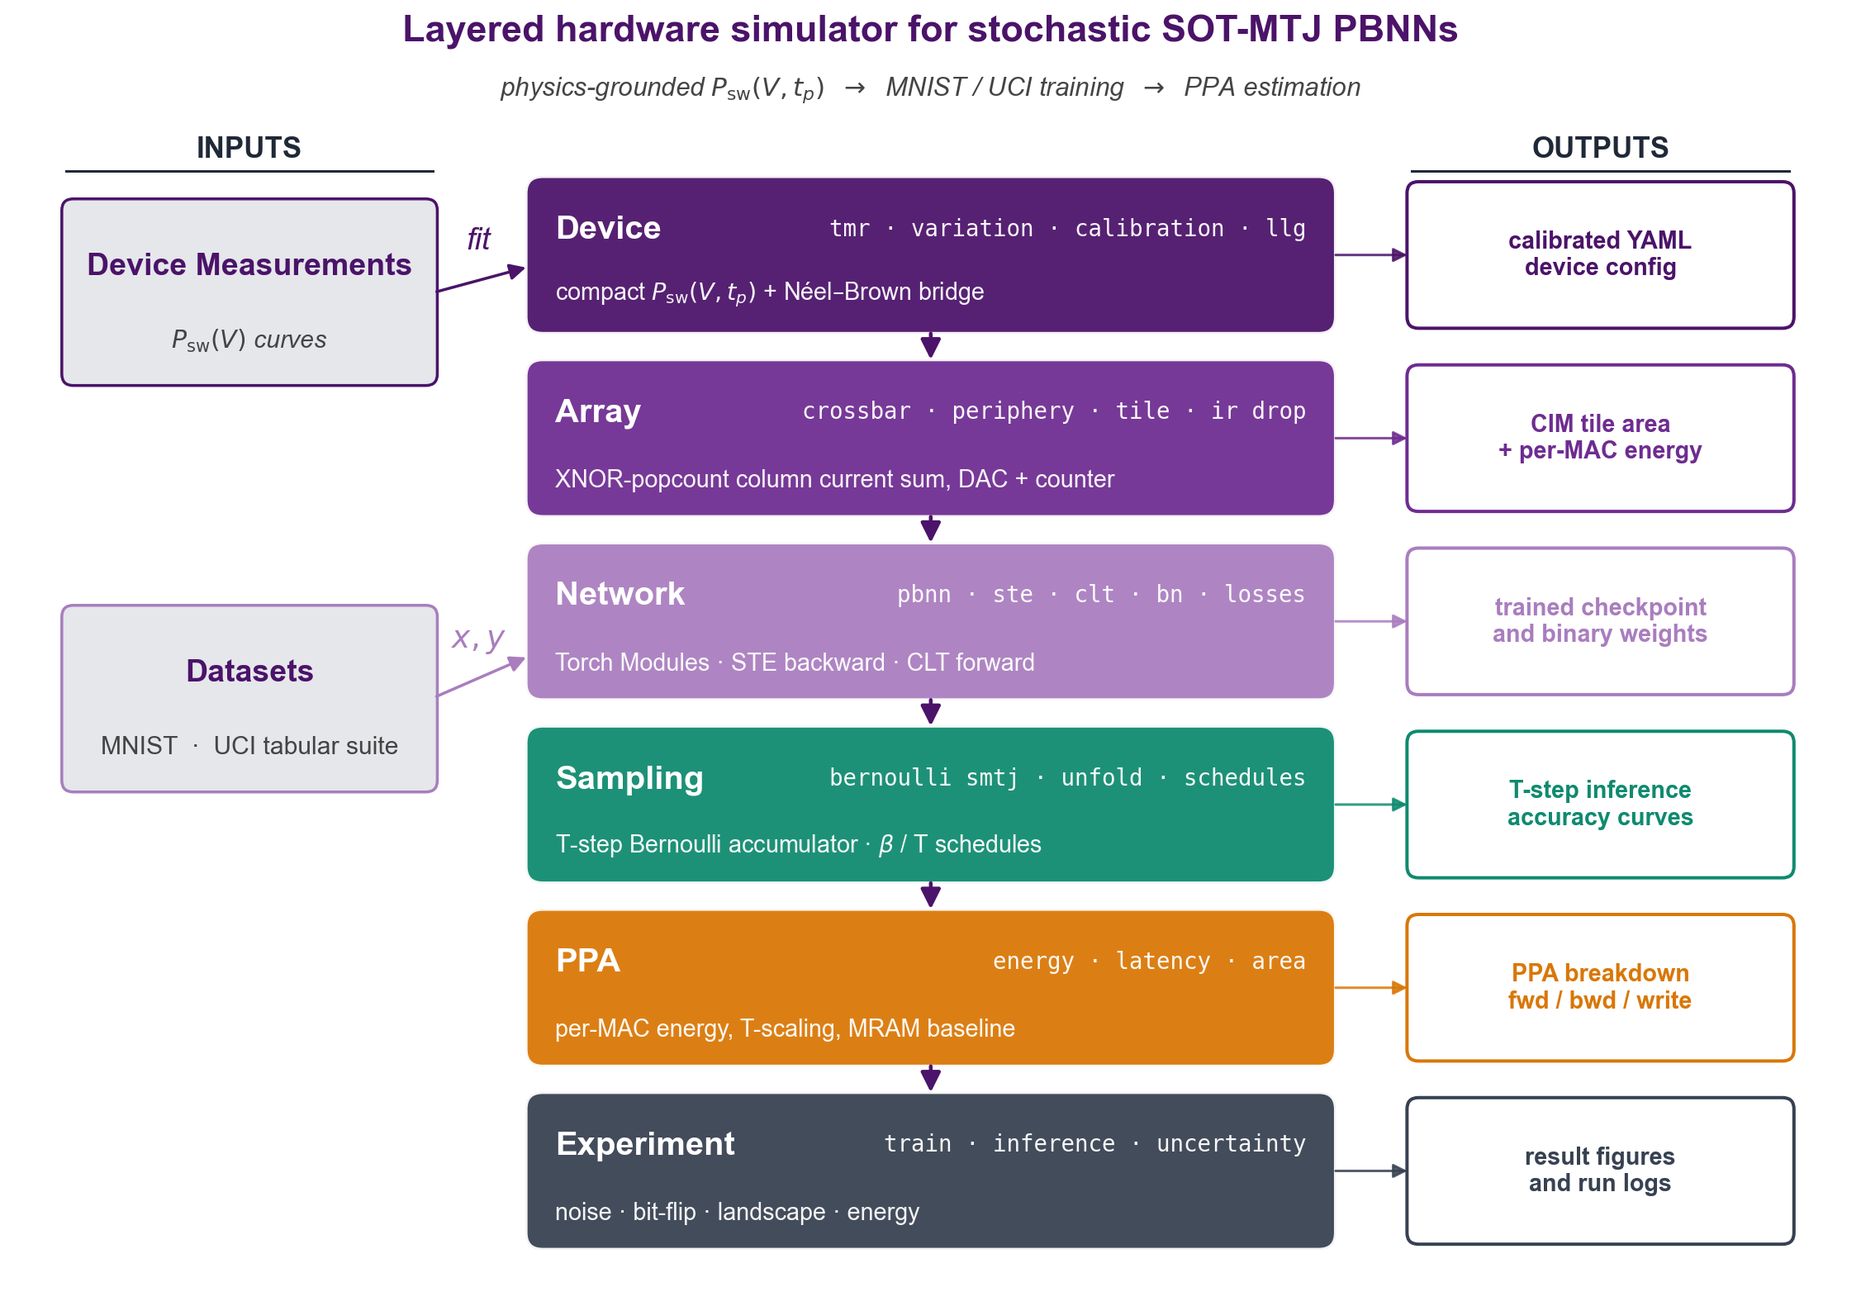
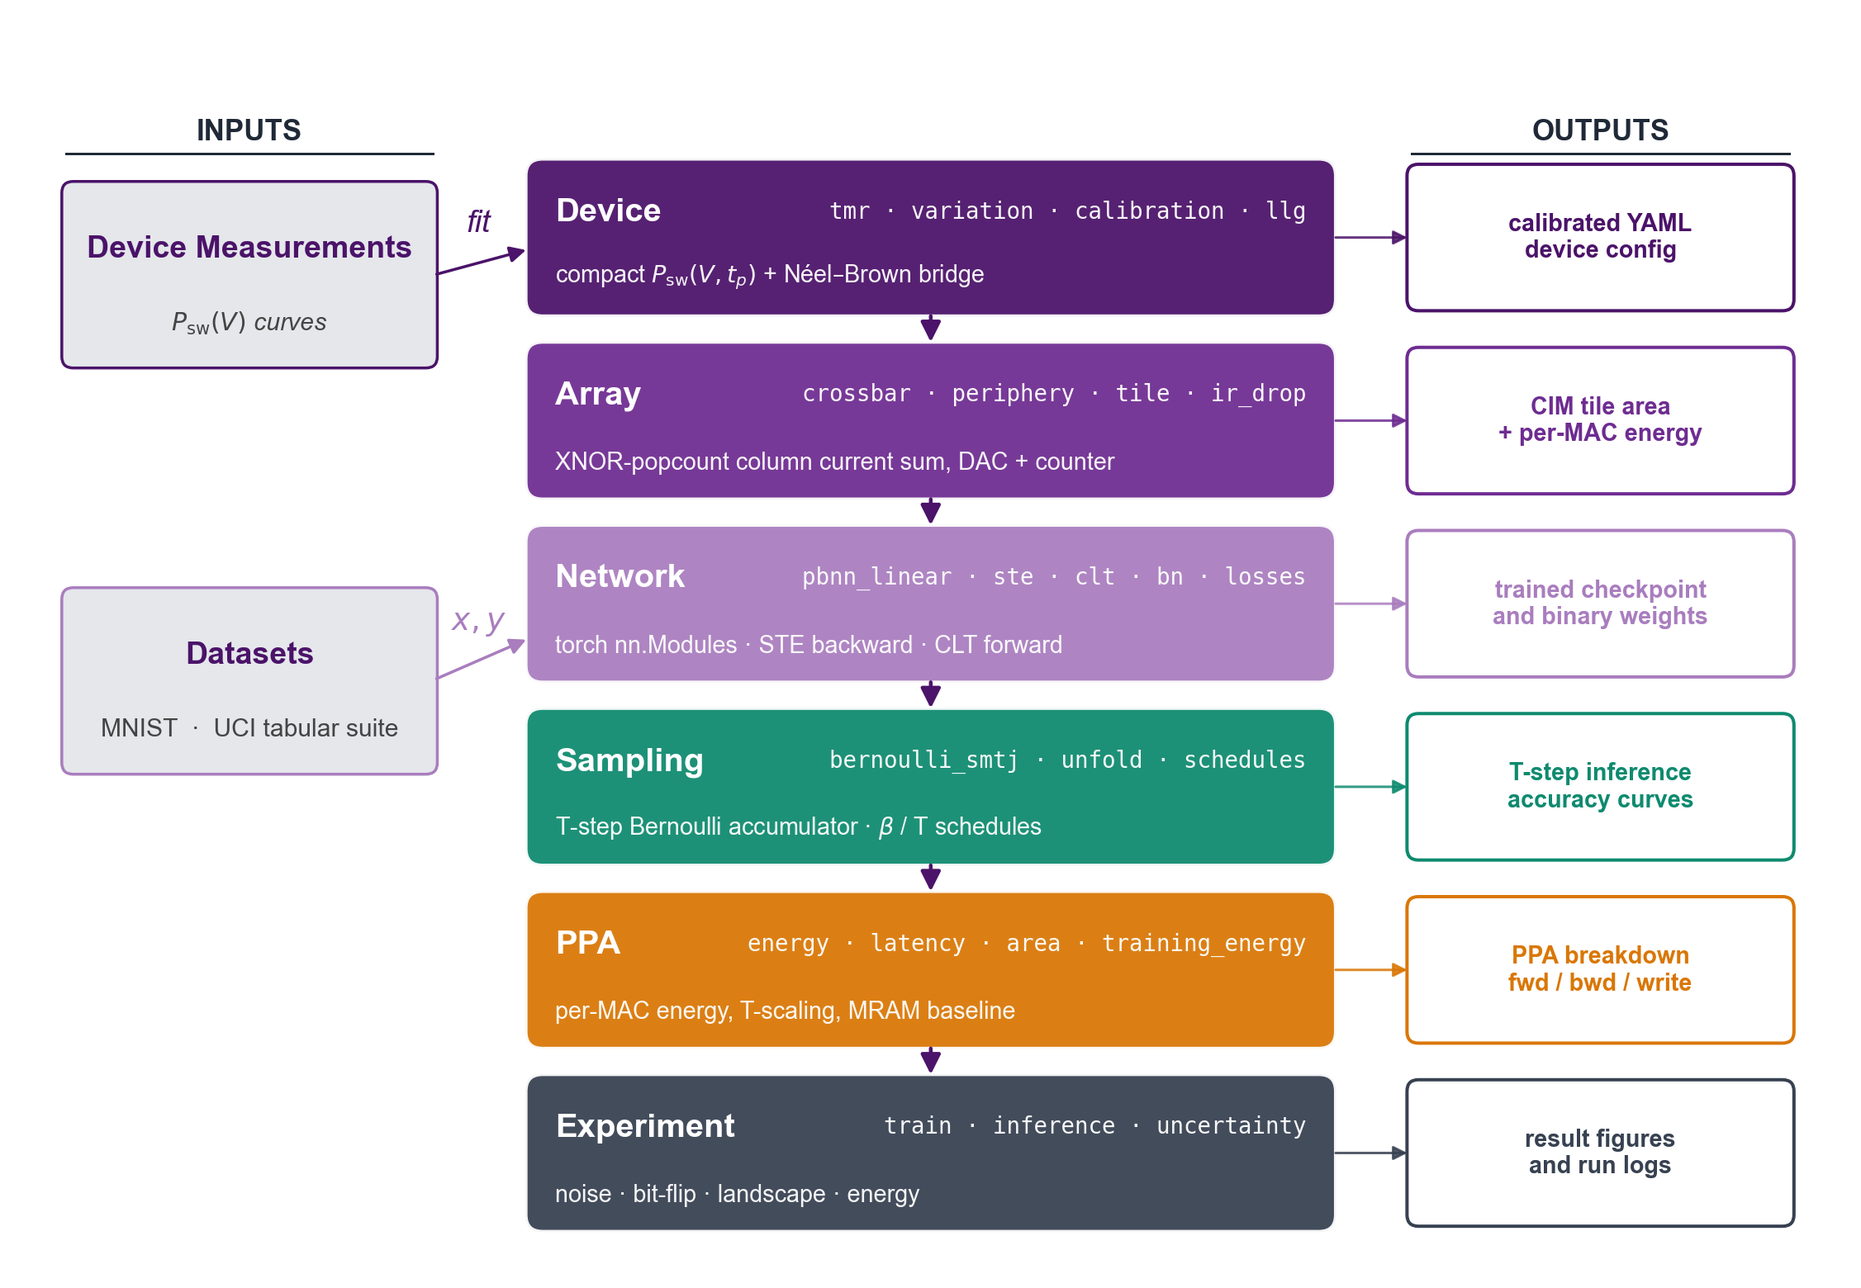
Repro guide: close Fig 4.2 gap, correct runs/ tracking claims
- Fig 4.2 (demo/01_simulator_framework.py): drop the in-figure title and
  switch module labels to source identifiers (pbnn_linear, bernoulli_smtj,
  ir_drop, +training_energy) so re-running reproduces the committed
  Chapter04_local_02 asset; regenerate its raw PNG.
- Guide: fix the systematic overstatement that runs/ result CSVs are
  in-repo -- runs/ and *.pt are gitignored; only eda/*_summary.json,
  comparison_results.json, the calibration CSV and figures/ are tracked.
  Rewrite section 2.3 accordingly and correct every per-table note.
- Section 7: record the Fig 4.2 fix; document the Table 4.2 BNN row as
  reproduced by a seeded exp05 re-run (BNN 97.05% and all FP/INT rows
  match exactly; PBNN 97.10% within the appendix-C seed spread; training
  is not bit-reproducible without use_deterministic_algorithms); drop the
  stale experiment_findings.md item (already correct in HEAD) and renumber.

diff --git a/demo/01_simulator_framework.py b/demo/01_simulator_framework.py
@@ -47,37 +47,29 @@ def main():
     ax.set_aspect("equal")
     ax.axis("off")
 
-    # ---- title ----
-    ax.text(8.0, 11,
-            "Layered hardware simulator for stochastic SOT-MTJ PBNNs",
-            ha="center", va="center", fontsize=18, fontweight="bold",
-            color=PURPLE_DARK)
-    ax.text(8.0, 10.50,
-            r"physics-grounded $P_\mathrm{sw}(V, t_p)$  $\rightarrow$  "
-            "MNIST / UCI training  $\\rightarrow$  PPA estimation",
-            ha="center", va="center", fontsize=12.5, style="italic",
-            color="#444")
-
     # ---- Layer boxes (vertical stack) ----
+    # Module labels use the actual source identifiers so the block diagram
+    # doubles as a module map (matches the numbered article asset). The figure
+    # carries no in-figure title -- the caption supplies it.
     layers = [
         (8.4, "Device",
          "tmr · variation · calibration · llg",
          r"compact $P_\mathrm{sw}(V, t_p)$ + Néel–Brown bridge",
          PURPLE_DARK),
         (6.8, "Array",
-         "crossbar · periphery · tile · ir drop",
+         "crossbar · periphery · tile · ir_drop",
          "XNOR-popcount column current sum, DAC + counter",
          PURPLE_MED),
         (5.2, "Network",
-         "pbnn · ste · clt · bn · losses",
-         "Torch Modules · STE backward · CLT forward",
+         "pbnn_linear · ste · clt · bn · losses",
+         "torch nn.Modules · STE backward · CLT forward",
          PURPLE_LIGHT),
         (3.6, "Sampling",
-         "bernoulli smtj · unfold · schedules",
+         "bernoulli_smtj · unfold · schedules",
          r"T-step Bernoulli accumulator · $\beta$ / T schedules",
          GREEN),
         (2.0, "PPA",
-         "energy · latency · area",
+         "energy · latency · area · training_energy",
          "per-MAC energy, T-scaling, MRAM baseline",
          ORANGE),
         (0.4, "Experiment",

diff --git a/docs/figure_table_reproduction.md b/docs/figure_table_reproduction.md
@@ -1,6 +1,6 @@
 # 图表复现指南
 
-本文把学位论文正文 (第 1、4、5 章) 与附录 B/C/D 中的每一张图、每一张表对应到仓库中可运行的生成脚本、运行命令、原始产出文件与 (对表而言) 已入库的数据源，供复核与重跑。面向读者的简版复现入口见 `article/appendix_A_code_availability.md` §A.3；本文是其完整对照。所有命令均从仓库根目录运行 (电路原理图的 WSL 步骤除外，另见对应小节)。
+本文把学位论文正文 (第 1、4、5 章) 与附录 B/C/D 中的每一张图、每一张表对应到仓库中可运行的生成脚本、运行命令、原始产出文件与 (对表而言) 数据源，供复核与重跑。数据源是否随仓库分发见 §2.3 (EDA 结果 JSON 已跟踪，实验 `runs/` 数据在 `.gitignore` 中)。面向读者的简版复现入口见 `article/appendix_A_code_availability.md` §A.3；本文是其完整对照。所有命令均从仓库根目录运行 (电路原理图的 WSL 步骤除外，另见对应小节)。
 
 ## 1. 运行环境
 
@@ -56,7 +56,9 @@ python eda/gen_supplement_figs.py && python eda/build_ppt_figs.py
 
 ### 2.3 表格数值的核对
 
-`runs/` 下已入库对应实验的结果 CSV/JSON，因此表格数值可直接从已入库文件核对，无需重跑 torch/GPU 实验。同一实验有多个时间戳 run 时，下表给出与文章口径一致的规范 run 目录。附录 D 的比较表由 `eda/design_survey/comparison_results.json` 及各 `*_summary.json` 重建，同样无需重跑电路仿真。
+仓库中**已跟踪**的数据源可离线核对，无需重跑：附录 D 的比较表 (表 D.1–D.4) 由 `eda/design_survey/comparison_results.json` 及各 `*_summary.json` 重建；第 4、5 章的 EDA 分析图 (4.15/4.16/4.17/4.21/5.9) 与器件标定数据 (`data/smtj_psw_curves/measured_0p75ns.csv`) 同理；`figures/` 与 `article/figs/` 下的图本身亦已跟踪。
+
+Family A 各表 (表 4.1–4.6、B.1、B.2、C.1) 的数据源为 `runs/<name>_<时间戳>/*.csv`，但 `runs/` 与 `*.pt` 均在 `.gitignore` 中——这些结果**不随仓库分发**，仅存于生成机器；下表列出的规范 run 目录是本机路径。要从零复现某表，须重跑对应实验。训练类实验并非逐位可复现 (`set_global_seed` 固定种子，但未开启 `use_deterministic_algorithms`)：重跑得到的精度落在附录 C 的种子分布内 (如 PBNN-MNIST 97.01%±0.17%)，与文章值同量级而非逐位一致；仅在已有检查点上做的纯推理扫描 (如表 B.2) 复现得更紧。
 
 ## 3. 第 1 章 (Family C，概念图)
 
@@ -74,7 +76,7 @@ python eda/gen_supplement_figs.py && python eda/build_ppt_figs.py
 | 编号 | 标题 | 生成脚本 · 命令 | 原始产出 → 编号资产 | 依赖/备注 |
 |---|---|---|---|---|
 | 图 4.1 | 单层闭环前向的硬件实现示意 | `demo/04_pbnn_hardware_principle.py` · `python demo/04_pbnn_hardware_principle.py` | `demo/figures/04_pbnn_hardware_principle.png` → (deck) → `Chapter04_local_01.png` | 概念图，纯 matplotlib |
-| 图 4.2 | 分层硬件仿真器的模块组织 | `demo/01_simulator_framework.py` · `python demo/01_simulator_framework.py` | `demo/figures/01_simulator_framework.png` → (Chapter04_local.pptx，编辑后合成) → `Chapter04_local_02.png` | ⚠ 现 HEAD 脚本输出与已入库资产不一致，重跑不能精确复现；见 §7 |
+| 图 4.2 | 分层硬件仿真器的模块组织 | `demo/01_simulator_framework.py` · `python demo/01_simulator_framework.py` | `demo/figures/01_simulator_framework.png` → (deck) → `Chapter04_local_02.png` | 2026-07-08 起脚本内容已对齐编号资产 (去内嵌标题、模块标签改用源标识符)，重跑即复现；见 §7 |
 | 图 4.3 | MNIST 上 PBNN-MLP 的端到端验证 (a/b/c) | `experiments/05_mnist_pbnn.py` + `experiments/06_sweep_T_vs_accuracy.py` (+ `demo/02_pbnn_mlp_architecture.py`) | 面板 b=`figures/05_mnist_training_curves.png`，c=`figures/06_sweep_T.png`，a=`demo/figures/02_pbnn_mlp_architecture.png` → (deck) → `Chapter04_local_03.png` | 多源合成图；torch + MNIST |
 | 图 4.4 | UCI 六类表格任务上的训练曲线 | `experiments/10_uci_benchmarks.py` | `figures/10_uci_accuracy_curves.png` → `Chapter04_local_04.png` | torch；首次联网下载 UCI；另产 `10_uci_residual_curves.png` (副产物，未入图) |
 | 图 4.5 | 优化器与学习率调度的对比 (a/b) | `experiments/11_optimizer_scheduler_study.py` | `figures/11a_optimizers.png` + `11b_schedulers.png` → `Chapter04_local_05.png` | torch + MNIST |
@@ -97,7 +99,7 @@ python eda/gen_supplement_figs.py && python eda/build_ppt_figs.py
 
 ### 4.2 表 4.1–4.6
 
-| 编号 | 标题 | 生成脚本 · 命令 | 数据来源 (已入库 run) | 依赖/备注 |
+| 编号 | 标题 | 生成脚本 · 命令 | 数据来源 (`runs/`，gitignore；见 §2.3) | 依赖/备注 |
 |---|---|---|---|---|
 | 表 4.1 | 不同采样次数下 MNIST PBNN-MLP 全栈推理精度与能耗 | `experiments/06_sweep_T_vs_accuracy.py` | `runs/06_sweep_T_20260502_054343/results.csv` (列 T, accuracy, energy_uJ) | 逐行核对一致；依赖 `runs/mnist_pbnn_mlp/best.pt` |
 | 表 4.2 | MNIST 上 PBNN-MLP、BNN-MLP 与 QAT FP-MLP 的最佳测试精度 | `experiments/05_mnist_pbnn.py` | `runs/05_mnist_pbnn_20260509_092543/{summary.json, fp_*_metrics.csv}` | PBNN 96.98%、FP32/INT8/INT4/INT2=98.51/98.33/98.43/98.21% 已核对；⚠ BNN 行 97.05% 数据源缺口，见 §7 |
@@ -129,17 +131,17 @@ python eda/gen_supplement_figs.py && python eda/build_ppt_figs.py
 |---|---|---|---|---|
 | 图 B.1 | Fashion-MNIST 上 PBNN-CNN 与基线的训练曲线 | `experiments/05a_fashion_mnist_pbnn_cnn.py` | `figures/05a_fashion_mnist_training_curves.png` →(复制改名)→ `article/figs/AppendixB_01.png` | torch + Fashion-MNIST |
 | 图 B.2 | CIFAR-10 上 PBNN-CNN 与基线的训练曲线 | `experiments/05a_cifar10_pbnn_cnn.py` | `figures/05a_cifar10_training_curves.png` → `AppendixB_02.png` | 60 轮，实际需 GPU |
-| 图 B.3 | Fashion-MNIST PBNN-CNN 全栈 T 扫描 | `experiments/06a_fashion_mnist_sweep_T_vs_accuracy.py` | `figures/06a_fashion_mnist_sweep_T.png` → `AppendixB_03.png` | 依赖 `runs/fashion_mnist_pbnn_cnn/best.pt` (已入库) |
-| 图 B.4 | CIFAR-10 PBNN-CNN 全栈 T 扫描 | `experiments/06a_cifar10_sweep_T_vs_accuracy.py` | `figures/06a_cifar10_sweep_T.png` → `AppendixB_04.png` | 依赖 `runs/cifar10_pbnn_cnn/best.pt` (已入库) |
+| 图 B.3 | Fashion-MNIST PBNN-CNN 全栈 T 扫描 | `experiments/06a_fashion_mnist_sweep_T_vs_accuracy.py` | `figures/06a_fashion_mnist_sweep_T.png` → `AppendixB_03.png` | 依赖 `runs/fashion_mnist_pbnn_cnn/best.pt` (本机；`*.pt` 不入库) |
+| 图 B.4 | CIFAR-10 PBNN-CNN 全栈 T 扫描 | `experiments/06a_cifar10_sweep_T_vs_accuracy.py` | `figures/06a_cifar10_sweep_T.png` → `AppendixB_04.png` | 依赖 `runs/cifar10_pbnn_cnn/best.pt` (本机；`*.pt` 不入库) |
 | 表 B.1 | 两数据集 CNN 的最佳测试精度 | `05a_fashion_mnist_pbnn_cnn.py` + `05a_cifar10_pbnn_cnn.py` | `runs/05a_*_<ts>/{metrics.csv, bnn_metrics.csv, fp_*_metrics.csv}` | ⚠ 数据源 CSV 未入库，须重跑 05a，见 §7 |
-| 表 B.2 | 两数据集 CNN 在 T=1..64 下的全栈精度 | `06a_fashion_mnist_sweep_T_vs_accuracy.py` + `06a_cifar10_sweep_T_vs_accuracy.py` | `runs/06a_*_sweep_T_<ts>/results.csv` (列 T, accuracy, energy_uJ) | ⚠ CSV 未入库；用已入库 best.pt 重跑 06a 可复现 |
+| 表 B.2 | 两数据集 CNN 在 T=1..64 下的全栈精度 | `06a_fashion_mnist_sweep_T_vs_accuracy.py` + `06a_cifar10_sweep_T_vs_accuracy.py` | `runs/06a_*_sweep_T_<ts>/results.csv` (列 T, accuracy, energy_uJ) | ⚠ CSV 不入库；用本机 best.pt 重跑 06a 可复现 (纯推理扫描，复现较紧) |
 
 ### 6.2 附录 C (种子稳健性，Family A)
 
 | 编号 | 标题 | 生成脚本 · 命令 | 产出/数据源 | 依赖/备注 |
 |---|---|---|---|---|
 | 图 C.1 | 主要结论的随机数种子稳健性 (4 面板) | `experiments/21_seed_independence.py` · `python experiments/21_seed_independence.py 8` | `figures/21_seed_independence.png` →(复制改名)→ `AppendixC_01.png` | torch + MNIST；8 个种子各训练一次 |
-| 表 C.1 | 头部结论在 8 个种子下的均值±标准差 | `experiments/21_seed_independence.py` · `python experiments/21_seed_independence.py 8` | `runs/21_seed_independence/seed_independence.json` (`summary` 块) | 已入库，五行均值/标准差与文章逐项吻合 |
+| 表 C.1 | 头部结论在 8 个种子下的均值±标准差 | `experiments/21_seed_independence.py` · `python experiments/21_seed_independence.py 8` | `runs/21_seed_independence/seed_independence.json` (`summary` 块) | 数据源在 `runs/` (gitignore)，不随仓库分发；本机核对五行均值/标准差与文章逐项吻合，重跑 `21` 重新生成 |
 
 ### 6.3 附录 D (电路比较)
 
@@ -159,12 +161,11 @@ python eda/gen_supplement_figs.py && python eda/build_ppt_figs.py
 ## 7. 已知偏差与注意事项
 
 1. **表 4.6 / 图 4.13 数值陈旧 — 已于 2026-07-08 修正**：文章旧值 (PBNN sMTJ 11.91 J、前向 7.09 J) 取自旧 run `runs/13_training_energy_20260511_214859`；规范 run `20260706_225408` (与 2026-07-08 重跑逐字节一致，模型确定性) 为 12.73 J (前向 7.90 J)。注意本条早先"仅 sMTJ 一行变动"的比对结论**不完整**：stoch-ReRAM 行同样变动 (前向 447.97→448.40 J、总 452.80→453.22 J)。已传播：表 4.6 两行、图 4.13 题注与 4.5 节末正文 (排名改为"仅次于 STT-MRAM 与 FeRAM"、1.14×→1.22×、4.2×→3.9×)、脚注 [^nv_ranking] (含旧占位值的来历说明)；图 4.13 经 deck 换图重导出 (slide 13 内嵌图替换为新 `13a_*.png` 并修正纵横比，LibreOffice→PDF→dpi 419 裁剪)。
-2. **图 4.2 不能由当前 HEAD 精确复现**：`demo/01_simulator_framework.py` 现输出 `demo/figures/01_simulator_framework.png`，与已入库 `Chapter04_local_02.png` 不一致 (标题已去除、模块标签改动、并新增 training_energy 项)——该资产由在 `Chapter04_local.pptx` 中编辑后的渲染合成，重跑脚本得到的是旧版式。
+2. **图 4.2 生成器已对齐编号资产——已于 2026-07-08 修正**：`demo/01_simulator_framework.py` 此前绘制内嵌标题、模块标签陈旧 (`pbnn`/`bernoulli smtj`/`ir drop`、缺 `training_energy`、"Torch Modules")，与已入库 `Chapter04_local_02.png` 不一致。现已去除内嵌标题、把模块标签改为源标识符 (`pbnn_linear`/`bernoulli_smtj`/`ir_drop`/`training_energy`、"torch nn.Modules")，重跑 `demo/01` 即复现编号资产内容，经 deck 导出编号。
 3. **图 4.19 生成脚本目标名陈旧——已于 2026-07-08 修正**：`plot_waveforms.py` 改写 `figures/waveforms_3ops.*`，编号资产经 deck 导出；`article/figs/Supplement_local_11.*` 孤儿文件已删除。同日起第 1/4/5 章全部编号光栅资产统一为 deck 导出 (dpi 419 自动裁剪)，此前直写编号或复制改名的图 (1.2、4.1、4.20、4.21、5.2–5.7) 均已并入。
-4. **表 4.2 BNN 行 (97.05%) 数据源缺口**：该行不在任一已保存的 05 run 目录 (`20260509_092543` 缺 `bnn_metrics.csv`、`20260506_181751` 为旧格式)。同表 PBNN 与四档 QAT 行已精确核对。重跑 `experiments/05_mnist_pbnn.py` 可重新生成 BNN 行 (脚本第 261 行确写 `bnn_metrics.csv`)。
-5. **表 B.1 / 表 B.2 数据源 CSV 未入库**：仓库只保留稳定检查点 `runs/{fashion_mnist_pbnn_cnn,cifar10_pbnn_cnn}/best.pt`，05a/06a 的时间戳 run 目录不在库。表 B.2 可用已入库 best.pt 直接重跑 06a 复现；表 B.1 需重跑 05a。另注：05a 脚本不写 `summary.json`，只写 `metrics.csv`/`bnn_metrics.csv`/`fp_*_metrics.csv`。
-6. **`docs/experiment_findings.md` 两处图名陈旧**：第 29 行写 `figures/02_wafer_mc.png` (实际 `figures/02_wafer_average_mc.png`)；第 293 行写 `demo/figures/04_encoding_comparison.png` (实际 `demo/04_encoding_comparison.py` 输出 `demo/figures/04_encoding_comparison_fixed.png`)。
-7. **第 5 章实验-图号偏移**：脚本按撰写顺序编号，与章节图号不一致——exp 14→图 5.2、exp 15→图 5.3、exp 19→图 5.4、exp 17→图 5.5、exp 18→图 5.6、exp 16→图 5.7。
-8. **储备池实验 14–19 不写 CSV**：指标仅打印到 stdout。`runs/rc/` 下的 CSV 为原型日志，非任何编号图的数据源。
-9. **EDA 分析面板须按序跑两条命令**：只跑 `gen_supplement_figs.py` 会在 `article/figs/` 留下无字母占位图，须接着跑 `build_ppt_figs.py` 覆盖为带 `(a)(b)(c)` 的规范资产 (图 4.15/4.16/4.17/5.9)。
-10. **表 4.4 PGD 行与图 4.8(h) 的口径差 (2026-07-08 起)**：exp07 旧代码对 PBNN 的 PGD 终评误用 CLT 路径 (HARDWARE_AWARE)，与表内其余行的全栈 T=4 终评口径不一致——代码已修 (`_eval_pgd` 攻击/终评口径分离)，表 4.4 的 PBNN 单元改为 exp23 修正口径值 53.22 (52.12 为规范 run 旧口径值；BNN/FP 单元保持规范 run 出处)。图 4.8(h) 面板仍为规范 run 旧口径曲线，与新单元差约 1.1 pp、在线宽内；下次全量重跑 exp07 时自然对齐 (注意重训基线的对抗精度对训练实例敏感，±5 pp 量级，见 exp23 审计)。EOT/迁移/多重启审计细节 = `runs/23_eot_attack_20260708_053712/attack_matrix.csv`。
+4. **表 4.2 BNN 行 (97.05%) 已由重跑复现 (2026-07-08)**：该行原缺已保存的 `bnn_metrics.csv` (`20260509_092543` 缺该文件、`20260506_181751` 为旧格式)。以固定种子重跑 `experiments/05_mnist_pbnn.py` (seed 0、torch 2.9.1、GPU) 重新生成 BNN 行并逐值对照：BNN 97.05% (与文章一致)、FP32/INT8/INT4/INT2 = 98.51/98.33/98.43/98.21% (均逐值一致)；PBNN 得 97.10% (文章 96.98%，差 0.12pp，落在附录 C 的种子分布 97.01%±0.17% 内)。确定性的 BNN/FP/QAT 路径逐值复现，PBNN 前向因器件变异/Bernoulli 采样 (未开 `use_deterministic_algorithms`) 不逐位复现。故 BNN 行数值可信；`runs/` 不入库 (见 §2.3)，须重跑重新生成其 CSV。
+5. **表 B.1 / 表 B.2 数据源不随仓库分发**：`runs/` 与 `*.pt` 均在 `.gitignore` 中——B 系列的稳定检查点 `runs/{fashion_mnist_pbnn_cnn,cifar10_pbnn_cnn}/best.pt` 与 05a/06a 的时间戳 run 目录仅存于生成机器。表 B.2 可用本机 best.pt 重跑 06a 复现 (纯推理扫描，复现较紧)；表 B.1 需重跑 05a (训练类，非逐位复现，见 §2.3 与本节第 4 条)。另注：05a 脚本不写 `summary.json`，只写 `metrics.csv`/`bnn_metrics.csv`/`fp_*_metrics.csv`。
+6. **第 5 章实验-图号偏移**：脚本按撰写顺序编号，与章节图号不一致——exp 14→图 5.2、exp 15→图 5.3、exp 19→图 5.4、exp 17→图 5.5、exp 18→图 5.6、exp 16→图 5.7。
+7. **储备池实验 14–19 不写 CSV**：指标仅打印到 stdout。`runs/rc/` 下的 CSV 为原型日志，非任何编号图的数据源。
+8. **EDA 分析面板须按序跑两条命令**：只跑 `gen_supplement_figs.py` 会在 `article/figs/` 留下无字母占位图，须接着跑 `build_ppt_figs.py` 覆盖为带 `(a)(b)(c)` 的规范资产 (图 4.15/4.16/4.17/5.9)。
+9. **表 4.4 PGD 行与图 4.8(h) 的口径差 (2026-07-08 起)**：exp07 旧代码对 PBNN 的 PGD 终评误用 CLT 路径 (HARDWARE_AWARE)，与表内其余行的全栈 T=4 终评口径不一致——代码已修 (`_eval_pgd` 攻击/终评口径分离)，表 4.4 的 PBNN 单元改为 exp23 修正口径值 53.22 (52.12 为规范 run 旧口径值；BNN/FP 单元保持规范 run 出处)。图 4.8(h) 面板仍为规范 run 旧口径曲线，与新单元差约 1.1 pp、在线宽内；下次全量重跑 exp07 时自然对齐 (注意重训基线的对抗精度对训练实例敏感，±5 pp 量级，见 exp23 审计)。EOT/迁移/多重启审计细节 = `runs/23_eot_attack_20260708_053712/attack_matrix.csv`。
